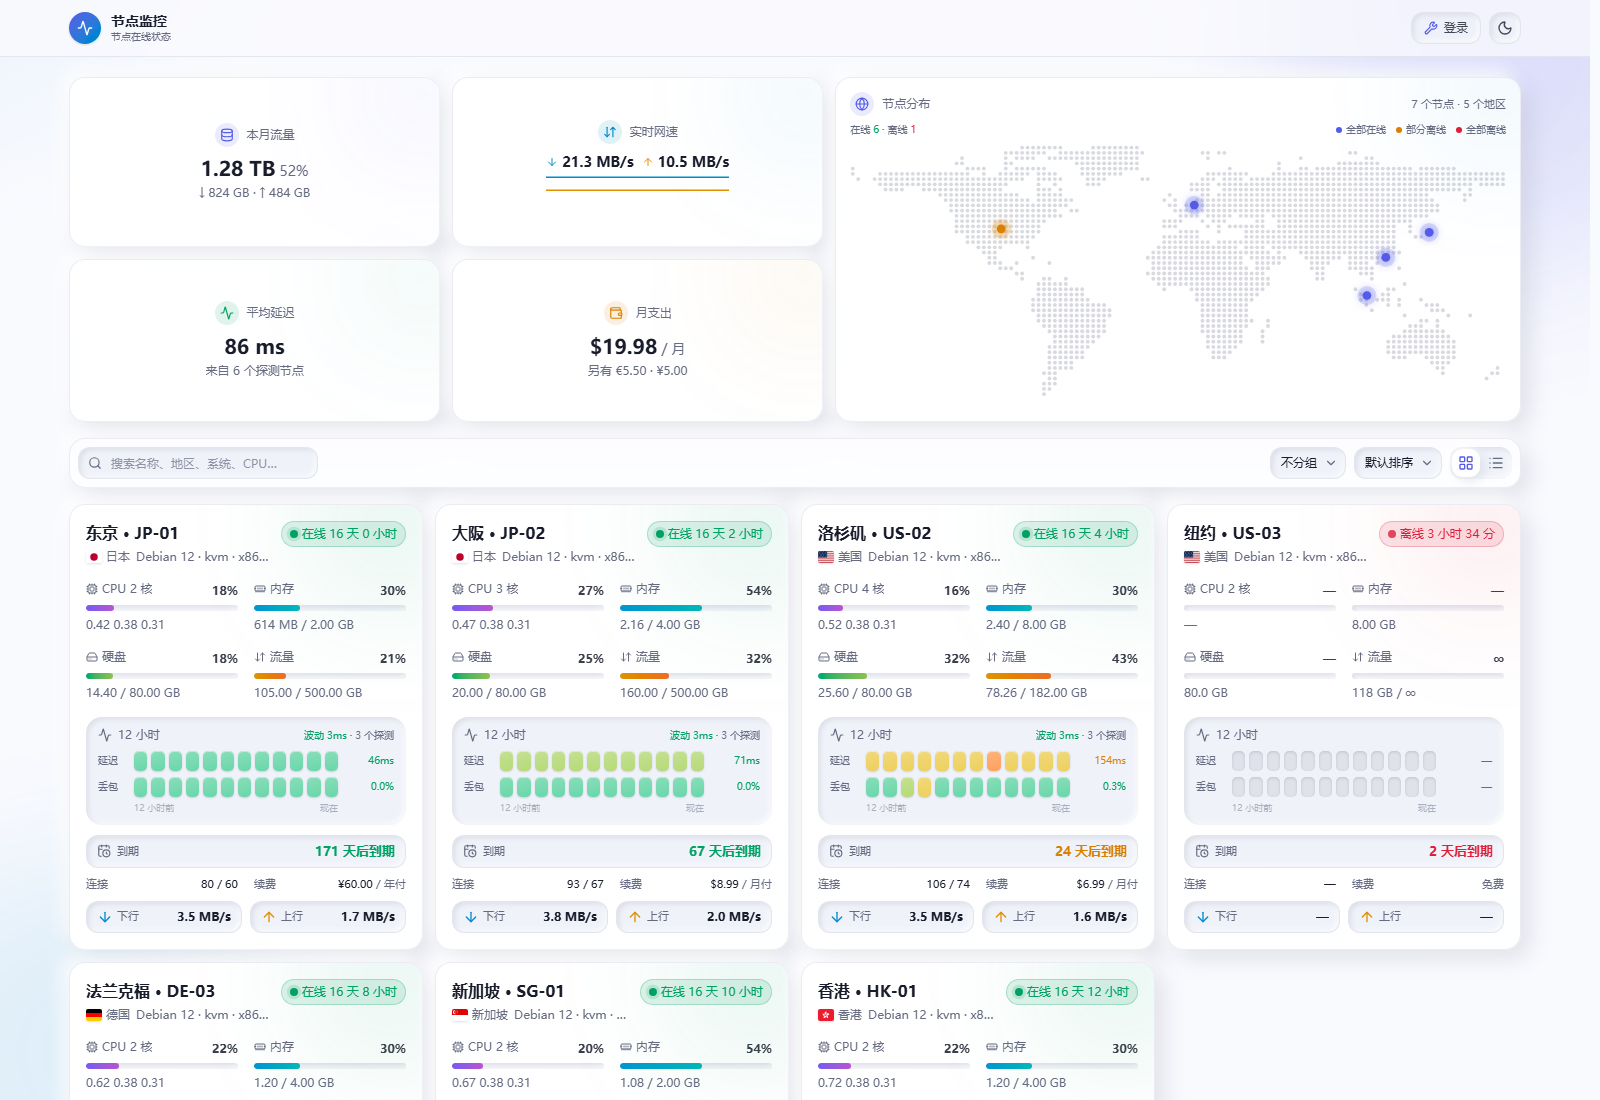
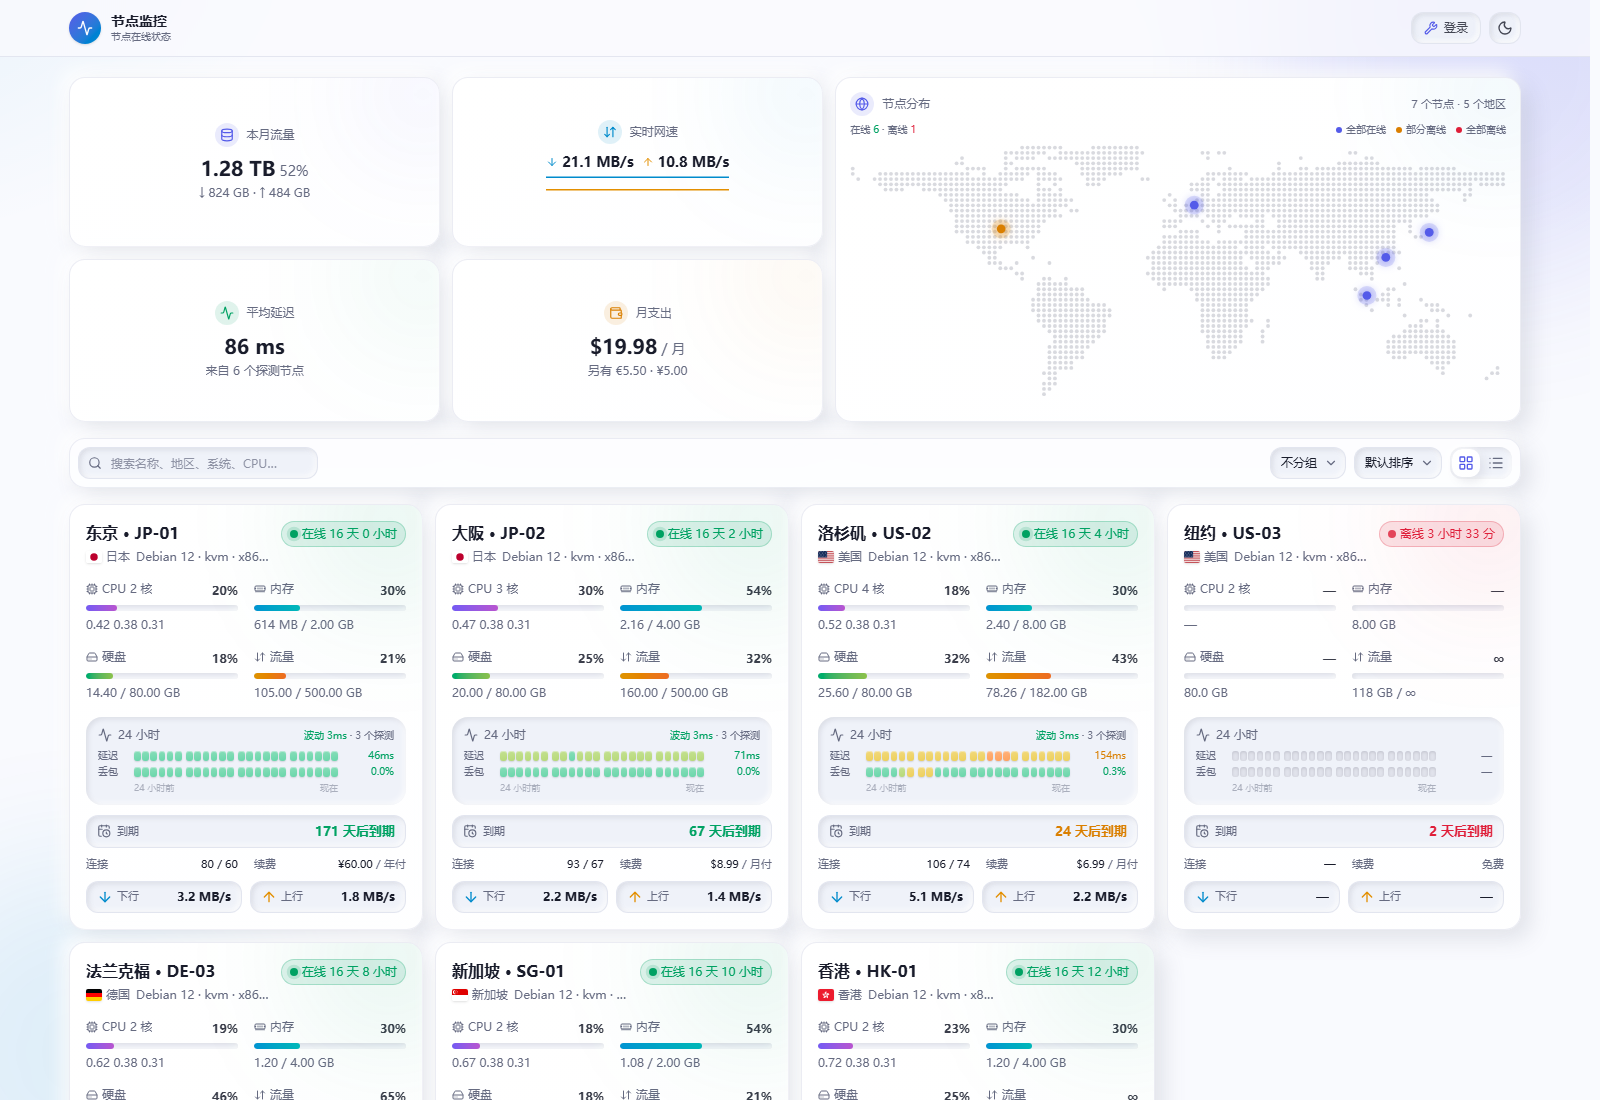
openlat v1.0.4：热力色块扩到 24 小时并缩小美化

diff --git a/src/components/Bits.tsx b/src/components/Bits.tsx
@@ -216,8 +216,8 @@ const HEAT_BLOCKS: Record<Heat, string> = {
   muted: "heat-muted",
 }
 
-/** 12 小时热力色块：每小时一格圆角方块，延迟与丢包各自一条轨道；
- *  色块带微拟物的高光与投影，没有数据的格子凹陷留白 */
+/** 24 小时热力色块：每小时一格小圆角方块，延迟与丢包各自一条轨道，
+ *  每 6 格留一道空隙区分时段；色块带微拟物的高光与投影，没有数据的格子凹陷留白 */
 function HeatTrack({
   hours,
   kind,
@@ -231,9 +231,10 @@ function HeatTrack({
   compact?: boolean
   className?: string
 }) {
-  const cell = cn("heat-cell min-w-0 flex-1", compact ? "rounded-[3px]" : "rounded-[5px]")
+  const cell = cn("heat-cell min-w-0 flex-1", compact ? "rounded-[2px]" : "rounded-[3px]")
+  const gap = (i: number) => (i > 0 && i % 6 === 0 ? (compact ? "ml-[2px]" : "ml-[3px]") : "")
   return (
-    <span className={cn("flex min-w-0 items-stretch", compact ? "gap-[2px]" : "gap-1", className)}>
+    <span className={cn("flex min-w-0 items-stretch", compact ? "gap-[1px]" : "gap-[1.5px]", className)}>
       {hours.length > 0
         ? hours.map((hour, i) => {
             const value = kind === "latency" ? hour.latency : hour.loss
@@ -243,13 +244,13 @@ function HeatTrack({
                 title={`${hourLabel(hour.ts)} · ${TRACK[kind]} ${
                   value === null ? "无数据" : kind === "latency" ? `${Math.round(value)} ms` : `${value.toFixed(1)}%`
                 }${probes > 1 ? `（${probes} 个探测均值）` : ""}`}
-                className={cn(cell, HEAT_BLOCKS[heatOf(value, kind)])}
+                className={cn(cell, gap(i), HEAT_BLOCKS[heatOf(value, kind)])}
               />
             )
           })
-        : // 没有探测数据时也铺满 12 格空槽，卡片行高与有数据的节点完全一致
+        : // 没有探测数据时也铺满 24 格空槽，卡片行高与有数据的节点完全一致
           Array.from({ length: HOUR_BUCKETS }, (_, i) => (
-            <span key={i} className={cn(cell, HEAT_BLOCKS.muted)} />
+            <span key={i} className={cn(cell, gap(i), HEAT_BLOCKS.muted)} />
           ))}
     </span>
   )
@@ -268,7 +269,7 @@ export const LatencyPanel = memo(function LatencyPanel({ latency, className }: {
       <div className="flex items-center justify-between gap-2">
         <span className="flex items-center gap-1.5 text-xs font-medium text-muted-foreground">
           <Activity className="size-3.5" />
-          12 小时
+          24 小时
         </span>
         <span
           className="tnum shrink-0 truncate text-[10px] text-muted-foreground"
@@ -293,7 +294,7 @@ export const LatencyPanel = memo(function LatencyPanel({ latency, className }: {
       <div className="mt-2 space-y-1.5">
         <div className="flex items-center gap-2">
           <span className="w-7 shrink-0 text-[10px] leading-none text-muted-foreground">延迟</span>
-          <HeatTrack hours={hours} kind="latency" probes={probes.length} className="h-5 min-w-0 flex-1" />
+          <HeatTrack hours={hours} kind="latency" probes={probes.length} className="h-2.5 min-w-0 flex-1" />
           <span
             className={cn(
               "tnum w-12 shrink-0 text-right text-[10px] leading-none",
@@ -305,7 +306,7 @@ export const LatencyPanel = memo(function LatencyPanel({ latency, className }: {
         </div>
         <div className="flex items-center gap-2">
           <span className="w-7 shrink-0 text-[10px] leading-none text-muted-foreground">丢包</span>
-          <HeatTrack hours={hours} kind="loss" probes={probes.length} className="h-5 min-w-0 flex-1" />
+          <HeatTrack hours={hours} kind="loss" probes={probes.length} className="h-2.5 min-w-0 flex-1" />
           <span
             className={cn(
               "tnum w-12 shrink-0 text-right text-[10px] leading-none",
@@ -318,7 +319,7 @@ export const LatencyPanel = memo(function LatencyPanel({ latency, className }: {
       </div>
 
       <div className="mt-1 flex items-center justify-between pl-9 pr-14 text-[9px] text-muted-foreground/50">
-        <span>12 小时前</span>
+        <span>24 小时前</span>
         <span>现在</span>
       </div>
     </div>
@@ -333,8 +334,8 @@ export function LatencyMini({ latency, className }: { latency?: Latency; classNa
   return (
     <span className={cn("flex min-w-0 flex-col justify-center gap-1", className)}>
       {/* 与卡片视图同一份 hours（多探测按小时求均值）与同一个热力色块组件，两个视图显示一致 */}
-      <HeatTrack hours={hours} kind="latency" probes={probes.length} compact className="h-2.5" />
-      <HeatTrack hours={hours} kind="loss" probes={probes.length} compact className="h-2.5" />
+      <HeatTrack hours={hours} kind="latency" probes={probes.length} compact className="h-2" />
+      <HeatTrack hours={hours} kind="loss" probes={probes.length} compact className="h-2" />
       <span className="flex min-w-0 items-center justify-between gap-2 text-[10px] leading-none whitespace-nowrap">
         <span className={cn("tnum truncate", TONE_TEXT[best.tone])}>{best.text}</span>
         <span className={cn("tnum shrink-0", HEAT_TEXT[heatOf(avgLoss, "loss")])}>

diff --git a/src/index.css b/src/index.css
@@ -39,7 +39,7 @@
   --grad-disk: linear-gradient(90deg, oklch(0.65 0.16 160), oklch(0.75 0.16 130));
   --grad-net: linear-gradient(90deg, oklch(0.72 0.16 75), oklch(0.68 0.18 45));
   --grad-danger: linear-gradient(90deg, oklch(0.6 0.22 25), oklch(0.68 0.2 50));
-  /* 热力色阶：12 小时色块逐档取样，低饱和但小尺寸下档位分明 */
+  /* 热力色阶：24 小时色块逐档取样，低饱和但小尺寸下档位分明 */
   --heat-ok: oklch(0.8 0.12 165);
   --heat-mild: oklch(0.84 0.13 125);
   --heat-warn: oklch(0.86 0.14 95);
@@ -202,10 +202,15 @@
   .bar-net { background-image: var(--grad-net); }
   .bar-danger { background-image: var(--grad-danger); }
 
-  /* 12 小时热力色块：每格一枚小圆角方块，顶部高光 + 底部浅投影做出微凸质感；
-     没有数据的格子反过来凹陷留白，随时段保留完整轨道 */
+  /* 24 小时热力色块：每格一枚小圆角方块，顶部高光 + 底部浅投影做出微凸质感，
+     悬停轻微抬起；没有数据的格子反过来凹陷留白，随时段保留完整轨道 */
   .heat-cell {
-    box-shadow: inset 0 1px 0 oklch(1 0 0 / 0.45), 0 1px 2px oklch(0.35 0.03 275 / 0.18);
+    box-shadow: inset 0 1px 0 oklch(1 0 0 / 0.4), 0 1px 1.5px oklch(0.35 0.03 275 / 0.16);
+    transition: transform 0.15s ease, filter 0.15s ease;
+  }
+  .heat-cell:hover {
+    transform: translateY(-1px);
+    filter: saturate(1.08) brightness(1.03);
   }
   .heat-ok {
     background-color: var(--heat-ok);
@@ -230,6 +235,10 @@
   .heat-muted {
     background-color: var(--heat-muted);
     box-shadow: inset 0 1px 3px oklch(0.35 0.03 275 / 0.18);
+  }
+  .heat-muted:hover {
+    transform: none;
+    filter: none;
   }
   .dark .heat-cell {
     box-shadow: inset 0 1px 0 oklch(1 0 0 / 0.14), 0 1px 2px oklch(0 0 0 / 0.45);

diff --git a/src/lib/api.test.ts b/src/lib/api.test.ts
@@ -82,19 +82,19 @@ const hourly = summarizePing(history([
   { task_id: 1, ts: hour + 10, latency: 40 },
   { task_id: 1, ts: hour + 20, latency: 60 },
 ]))
-assert.equal(hourly.probes[0].hours.length, 12)
-assert.equal(hourly.probes[0].hours[11].latency, 50)
-assert.equal(hourly.probes[0].hours[11].loss, 0)
+assert.equal(hourly.probes[0].hours.length, 24)
+assert.equal(hourly.probes[0].hours[23].latency, 50)
+assert.equal(hourly.probes[0].hours[23].loss, 0)
 assert.equal(hourly.probes[0].hours[0].latency, null)
 assert.equal(hourly.probes[0].avgLatency, 50)
 
 const hourlyLoss = summarizePing(history([
   { task_id: 2, ts: hour + 10, latency: 50, loss: 8 },
 ], { "2": 8 }))
-assert.equal(hourlyLoss.probes[0].hours[11].loss, 8)
+assert.equal(hourlyLoss.probes[0].hours[23].loss, 8)
 assert.equal(hourlyLoss.probes[0].avgLoss, 8)
 
-console.log("小时聚合生成 12 格波形数据")
+console.log("小时聚合生成 24 格热力数据")
 
 const merged = summarizePing(history([
   { task_id: 1, ts: hour + 10, latency: 40 },
@@ -102,8 +102,8 @@ const merged = summarizePing(history([
   { task_id: 2, ts: hour + 10, latency: 120 },
   { task_id: 2, ts: hour + 20, latency: 80 },
 ]))
-assert.equal(merged.hours.length, 12)
-assert.equal(merged.hours[11].latency, 75)
+assert.equal(merged.hours.length, 24)
+assert.equal(merged.hours[23].latency, 75)
 assert.equal(merged.hours[0].latency, null)
 assert.equal(merged.avgLatency, 75)
 assert.equal(merged.avgLoss, 0)
@@ -121,5 +121,5 @@ const gap = mergeHours([probe([slot(null, 6)])], [hour])
 assert.equal(gap[0].latency, null)
 assert.equal(gap[0].loss, 6)
 
-console.log("多探测按小时均值合并为单条波形")
+console.log("多探测按小时均值合并为单条热力轨道")
 

diff --git a/src/lib/api.ts b/src/lib/api.ts
@@ -229,7 +229,7 @@ export type Latency = {
   probe: string
   jitter: number | null
   probes: ProbeStat[]
-  /** 所有探测按小时聚合后的单条 12 小时序列 */
+  /** 所有探测按小时聚合后的单条 24 小时序列 */
   hours: LatencyHour[]
   avgLatency: number | null
   avgLoss: number | null
@@ -247,10 +247,10 @@ function jitterOf(values: (number | null)[]): number | null {
   return sum / (clean.length - 1)
 }
 
-export const HOUR_BUCKETS = 12
+export const HOUR_BUCKETS = 24
 const HOUR_SECONDS = 3600
 
-/** 12 个小时桶的时间戳，最后一格是当前小时。 */
+/** 24 个小时桶的时间戳，最后一格是当前小时。 */
 function hourSlots(count = HOUR_BUCKETS): number[] {
   const nowHour = Math.floor(Date.now() / 1000 / HOUR_SECONDS) * HOUR_SECONDS
   return Array.from({ length: count }, (_, i) => nowHour - (count - 1 - i) * HOUR_SECONDS)
@@ -279,7 +279,7 @@ function hourlyBuckets(points: PingPoint[], fallbackLoss: number, slots: number[
   })
 }
 
-/** 把多个探测按小时求均值，合成单条 12 小时序列。 */
+/** 把多个探测按小时求均值，合成单条 24 小时序列。 */
 export function mergeHours(probes: ProbeStat[], slots: number[]): LatencyHour[] {
   return slots.map((ts, i) => {
     let latSum = 0
@@ -393,7 +393,7 @@ export function useLatency(nodes: Node[] | null): LatencyMap {
       while (running < CONCURRENCY && queue.length > 0) {
         const id = queue.shift()!
         running++
-        fetchHistory(id, 12, "ping", 144)
+        fetchHistory(id, 24, "ping", 288)
           .then((history) => {
             if (!stopped) setStats((s) => ({ ...s, [id]: summarizePing(history) }))
           })
